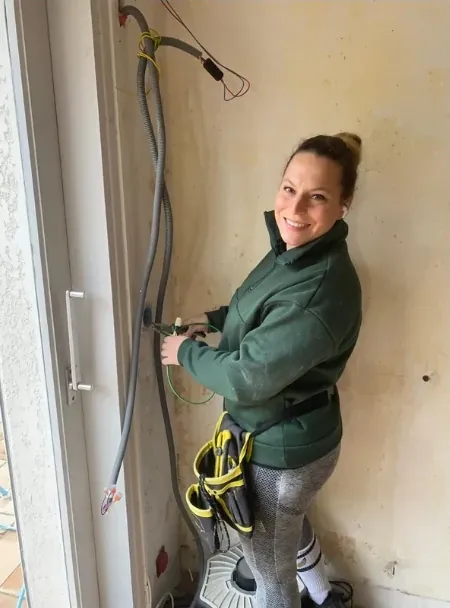
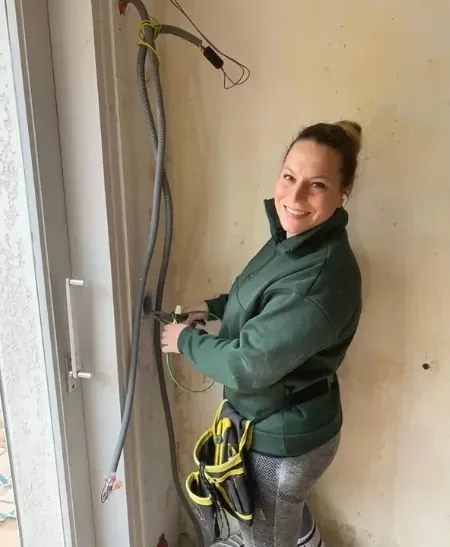
Corrections Services, Oriana, RVL et Audiovisuel
- Services : « Co-écriture de sketchs, de paroles, de livres »
- Oriana : exposition Beautydivercity à la maison Albert Camus
- RVL : « Love affair »
- Audiovisuel : en-têtes de parties au style d'origine (.etat), toutes les images au même ratio que V(i)ol (Flashback refait depuis l'image native du PDF, plus nette)

diff --git a/css/pages.css b/css/pages.css
@@ -173,3 +173,10 @@ body[data-page="audiovisuel"] h1{font-size:clamp(34px,10.5vw,74px);white-space:n
 
 /* Titre RVL : Italianno (choix de Simon) */
 body[data-page="rvl"] h1{font-family:"Italianno",var(--titre);font-size:clamp(110px,30.6vw,170px);letter-spacing:.03em;line-height:1.05}
+
+/* Audiovisuel : en-têtes de parties = style d'origine de « Court métrage » (.etat) */
+.bloc h2.partie{font-family:var(--texte);font-weight:400;font-size:13px;line-height:1.7;letter-spacing:.14em;text-transform:uppercase;color:#D6666A}
+.bloc h2.partie::after{display:none}
+.bloc h2.partie+*{margin-top:22px}
+/* Même proportion pour toutes les images (celle de V(i)ol, 772 x 938) */
+.visuel-img{aspect-ratio:772/938;object-fit:cover}

diff --git a/js/pages.js b/js/pages.js
@@ -88,7 +88,7 @@
         ${f.image ? `<div class="visuel">${image(f.image, f.image_alt, 'visuel-img')}</div>` : ''}</article>`;
     };
     return hero(P, OV.t('nav.audiovisuel')) +
-      P.parties.map((pa) => bloc(pa.h, pa.films.map(film).join(''))).join('');
+      P.parties.map((pa) => `<section class="cadre bloc entre"><h2 class="partie">${esc(pa.h)}</h2>${pa.films.map(film).join('')}</section>`).join('');
   }
   function services(P) {
     return hero(P, OV.t('nav.services')) +
